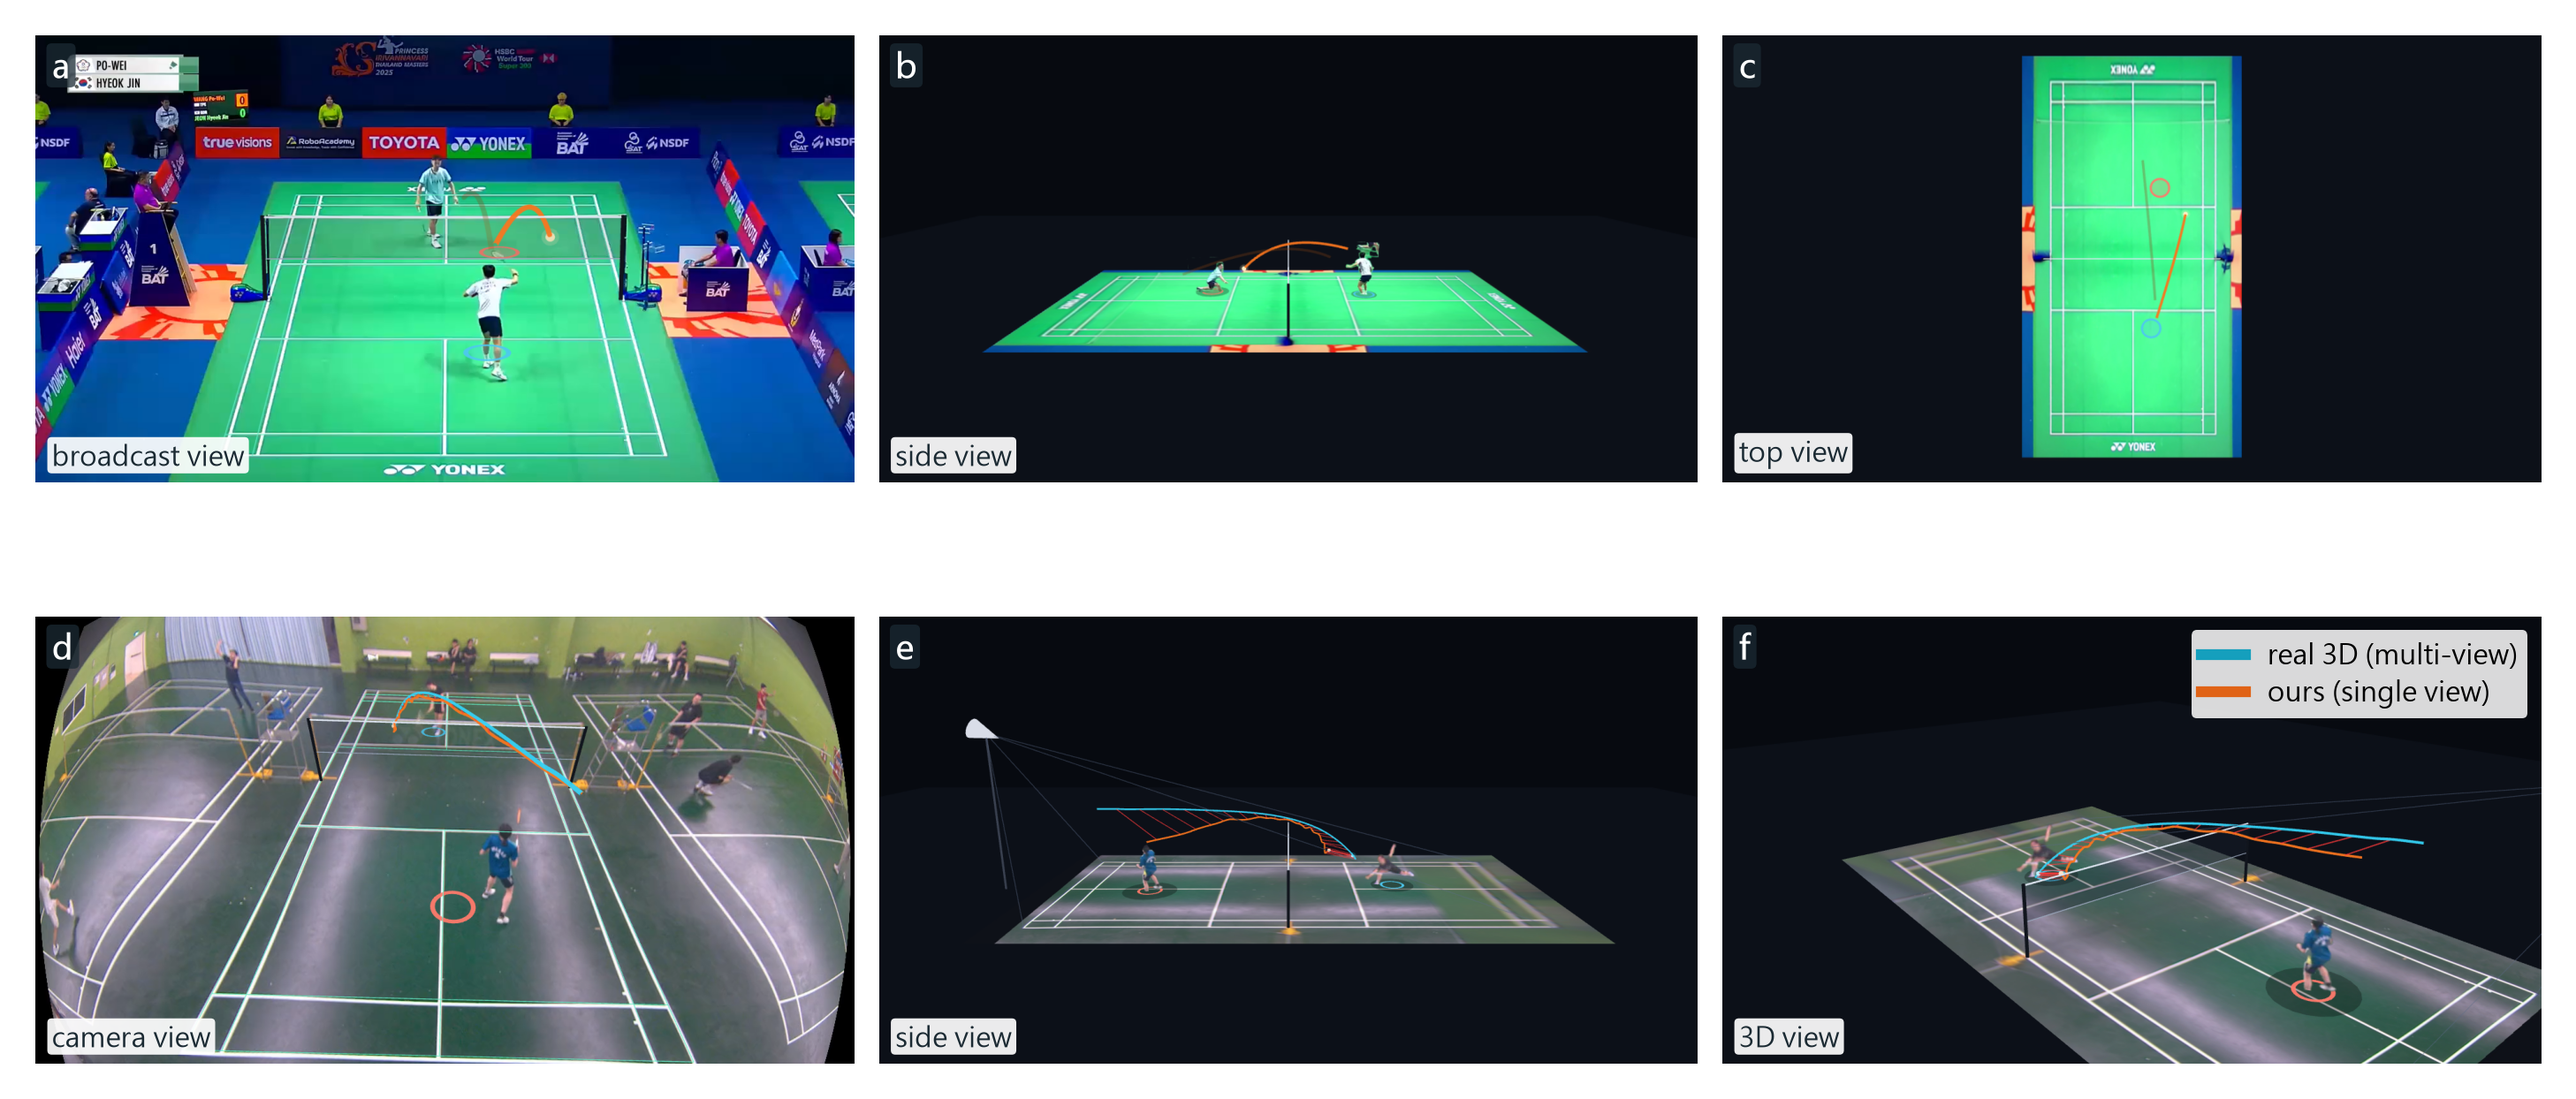
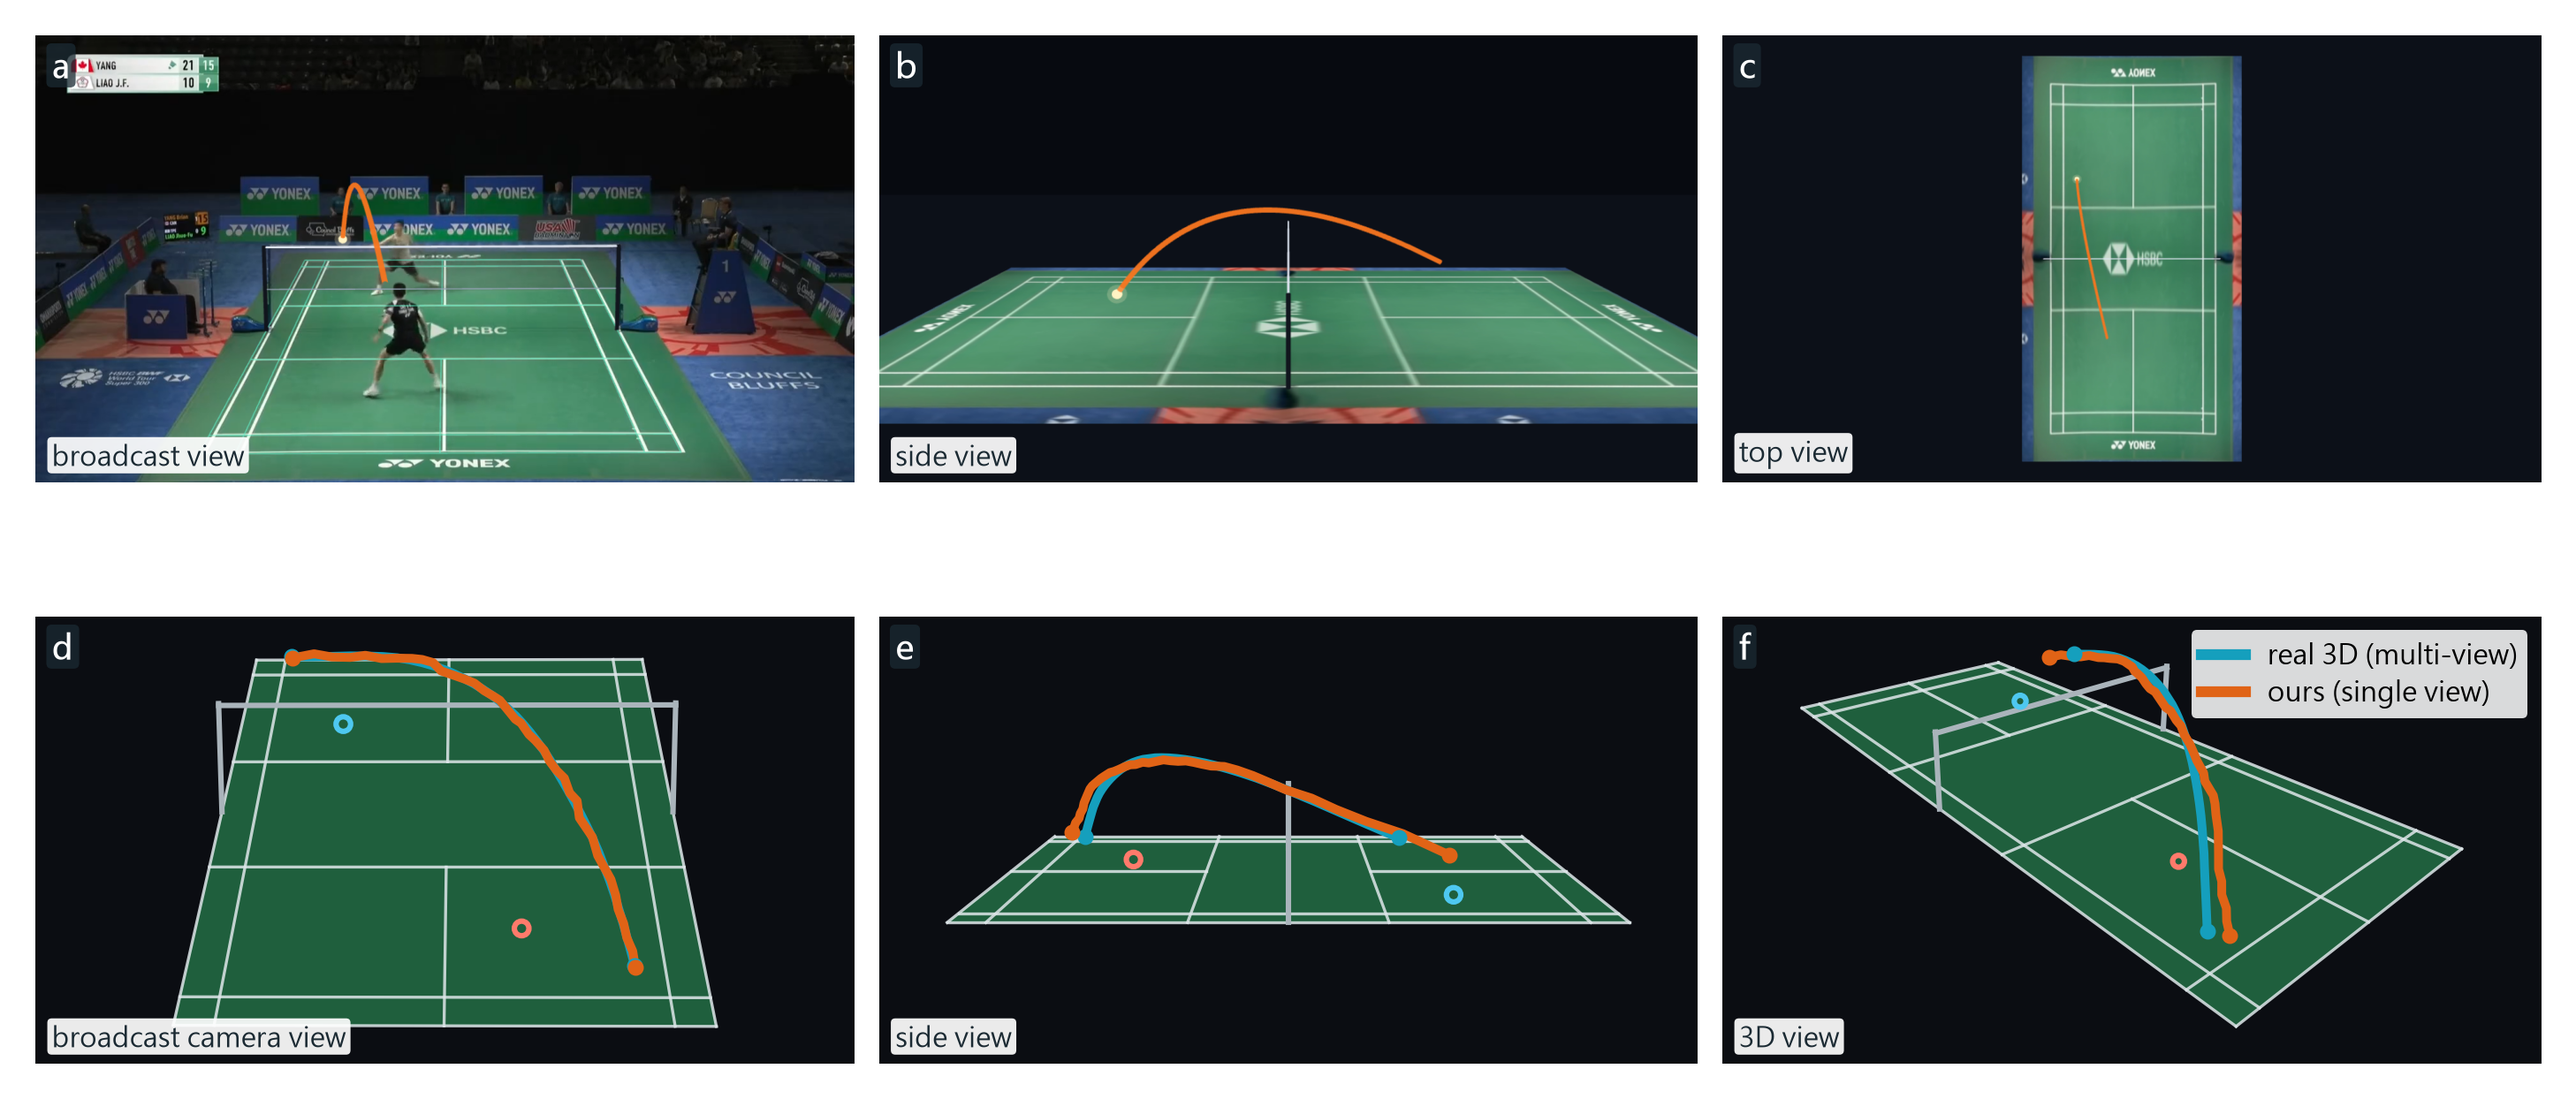
Figure 6: representative examples (in-frame broadcast stroke; 25th-percentile multi-view stroke)

diff --git a/index.html b/index.html
@@ -302,7 +302,7 @@ h4{font-size:15.5px;font-weight:600;margin:20px 0 6px;color:var(--muted)}
 </table></div>
 <figure>
   <img src="assets/fig_demo.png" alt="Reconstructed shuttle trajectories from three viewpoints on a broadcast rally and on the multi-view capture">
-  <figcaption><b>Figure 6 &mdash; Reconstructions seen from several viewpoints.</b> (a&ndash;c) One frame of a ShuttleSet broadcast rally: broadcast, side and top views. (d&ndash;f) One stroke of the multi-view capture: camera, side and 3D views, with the real 3D flight (cyan) and our single-view reconstruction (orange).</figcaption>
+  <figcaption><b>Figure 6 &mdash; Reconstructions seen from several viewpoints.</b> (a&ndash;c) One frame of a ShuttleSet broadcast rally: broadcast, side and top views. (d&ndash;f) A held-out stroke of the multi-view capture, seen through the broadcast camera used in the test, from the side and in 3D: real 3D flight (cyan) and our single-view reconstruction (orange); median error 0.24&nbsp;m, the 25th percentile of the set (median 0.42&nbsp;m).</figcaption>
 </figure>
 <p><b>Test protocol.</b> The 2D track is the reference flight seen through one of our measured broadcast cameras. The reference has video for only one rally, so a pose detector cannot be run on it; foot anchors are therefore simulated at detector quality: the reference player&rsquo;s ground position plus a residual drawn from 7,763 measured residuals of the broadcast pose pipeline on ShuttleSet (median 0.76&nbsp;m, wrong-player picks included), with 5.2% of anchors dropped as undetected. The hitter and receiver are the players nearest the reference shuttle at the first and last tracked frames, standing in for the stroke-order assignment a broadcast pipeline makes. Apart from these corrupted player positions, no reference quantity enters any model. The Uplifting-style lifter receives the same anchor values without the declared-uncertainty channel, which it does not have. Without anchors, single-seed differences lie inside a 0.040&nbsp;m spread, so those rows report three seeds.</p>
 <p><b>The synthetic-to-real gap.</b> On 400 synthetic and 400 reference strokes run through one script (Table&nbsp;2), synthetic evaluation understates real 3D error for every non-trivial method: by 1.7&times; for Shuttle3D, 2.5&times; for MonoTrack and 2.9&times; for the physics fit. The ranking changes with it: the physics prior that is the best synthetic cell (0.255&nbsp;m) loses to Tier&nbsp;1 alone on real flights (0.632 vs. 0.530&nbsp;m). Physical plausibility does not guarantee metric accuracy: the constrained estimator is feasible on 100% of real flights yet 0.618&nbsp;m from the reference at the median. Shuttle3D's 0.530&nbsp;m is 1.15&times; the median CRLB of 0.460&nbsp;m computed over 3,000 reference strokes.</p>
